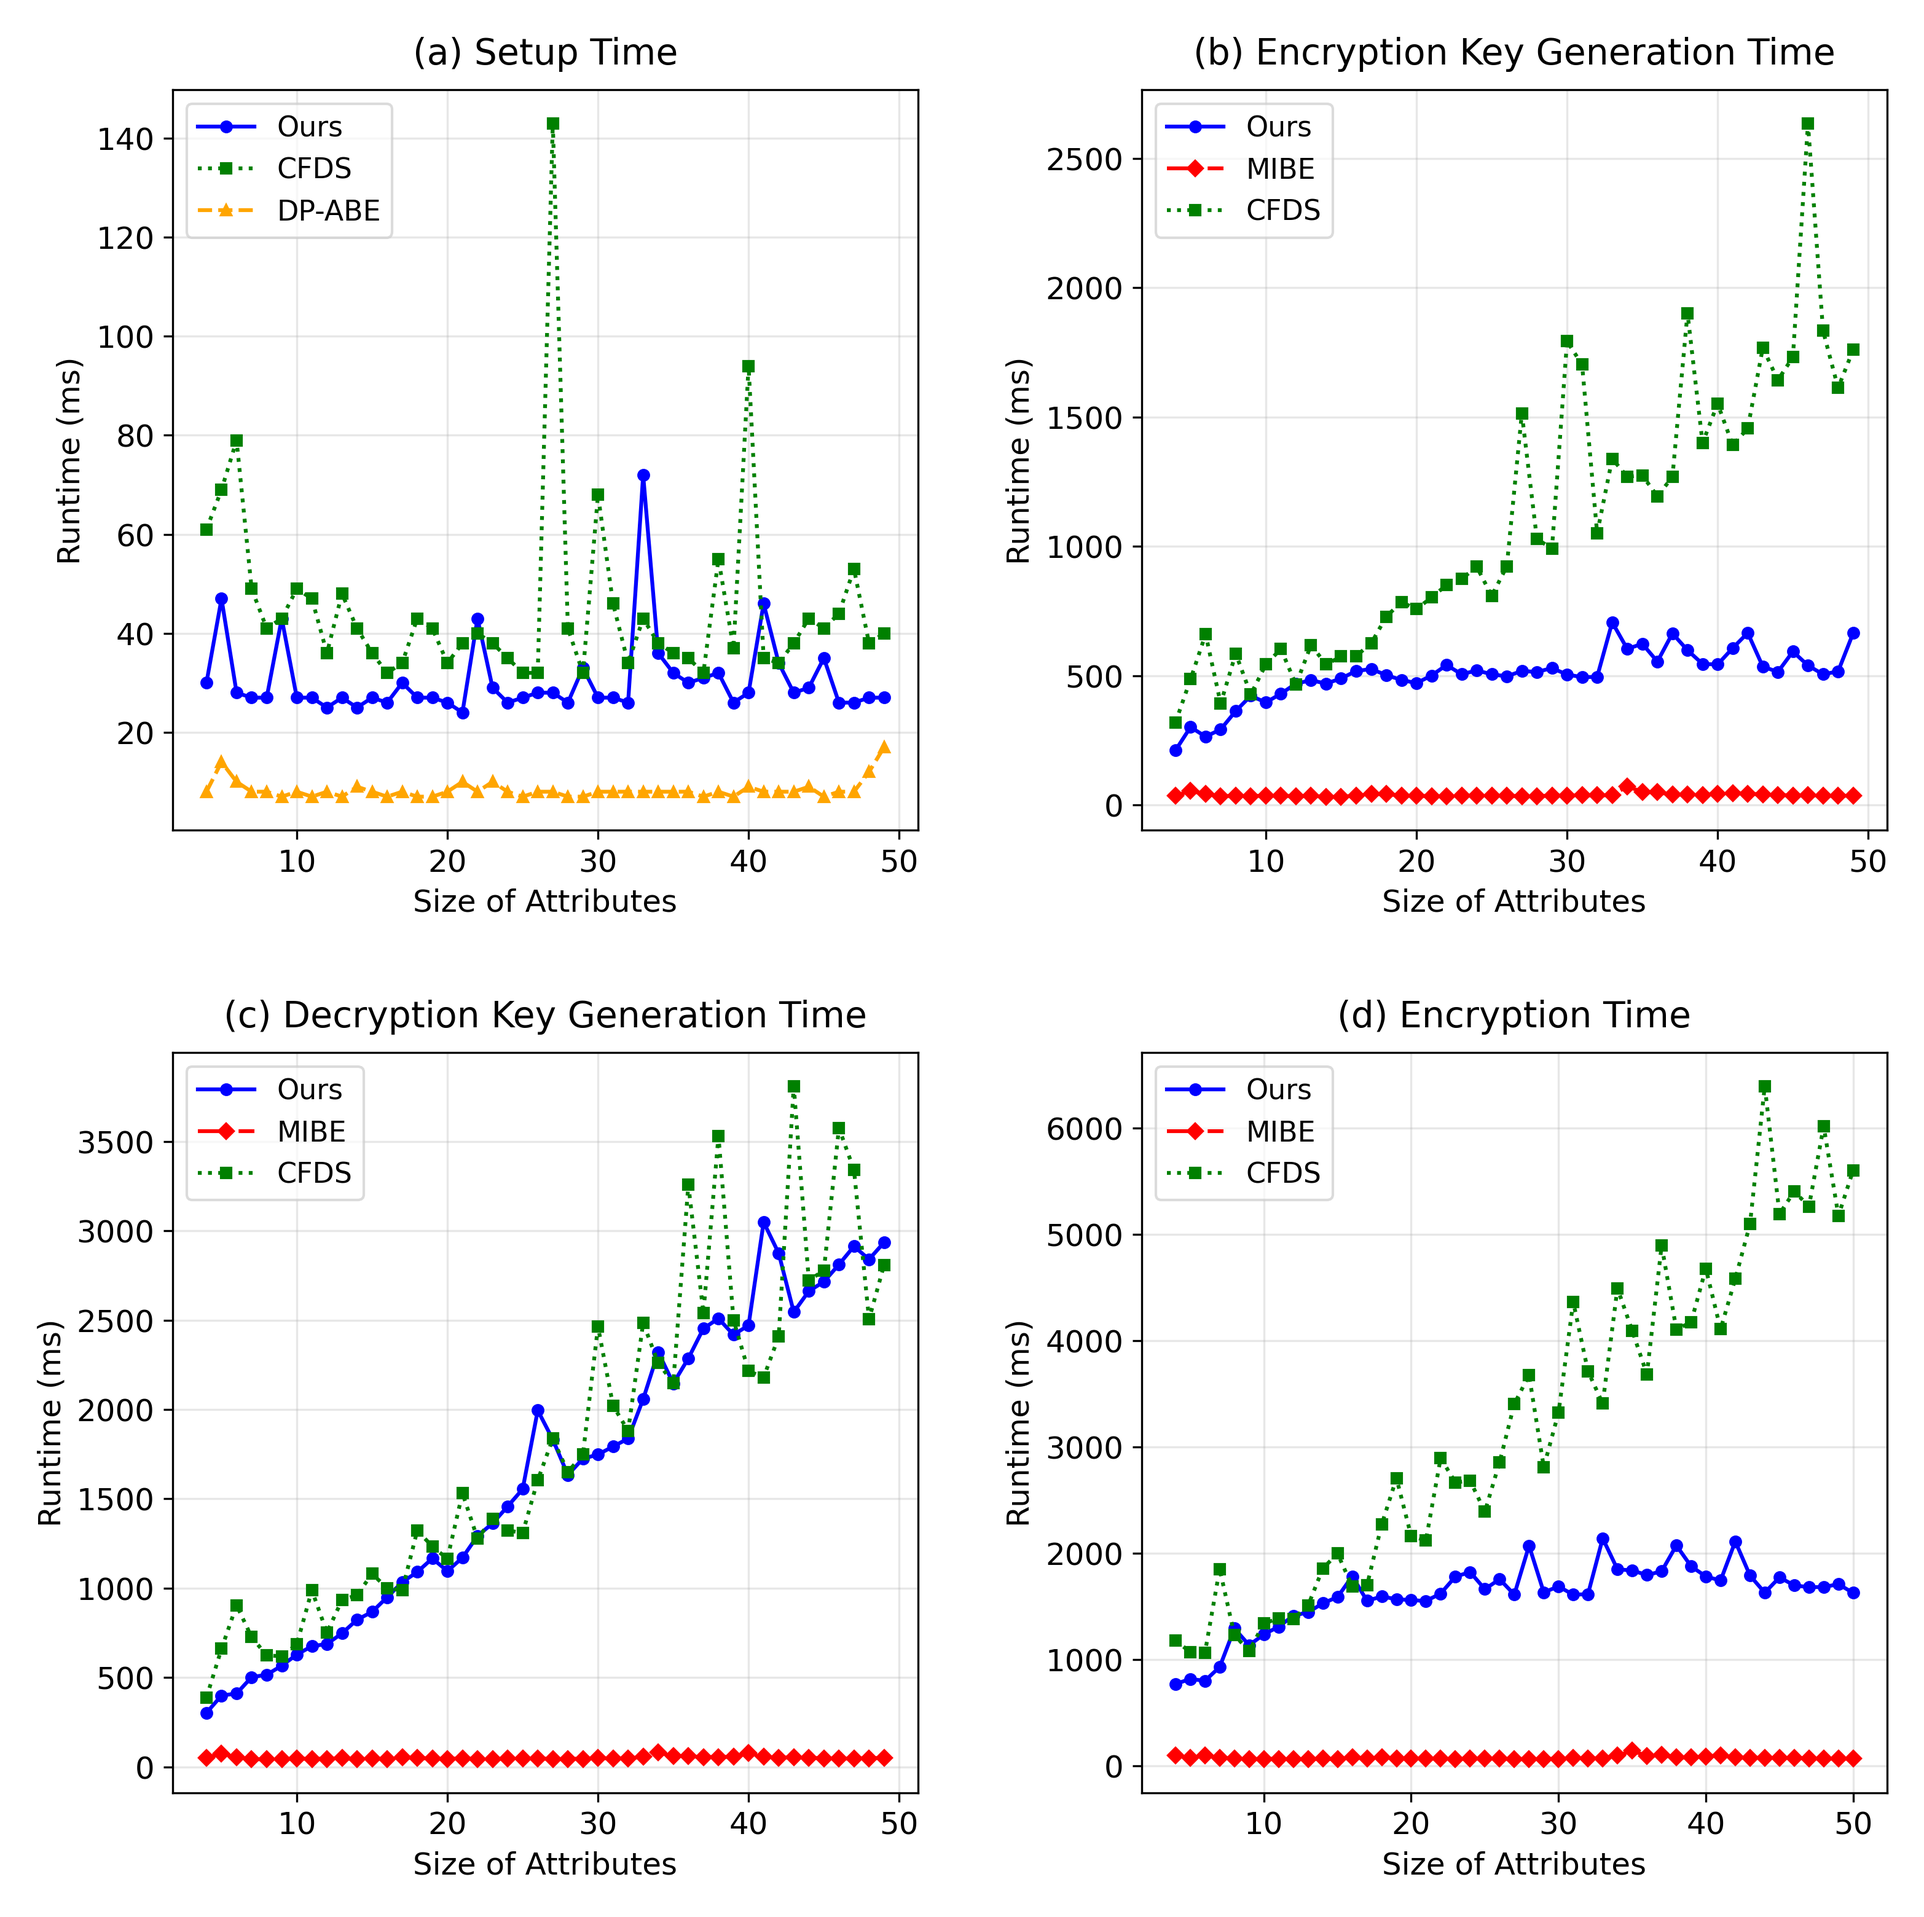
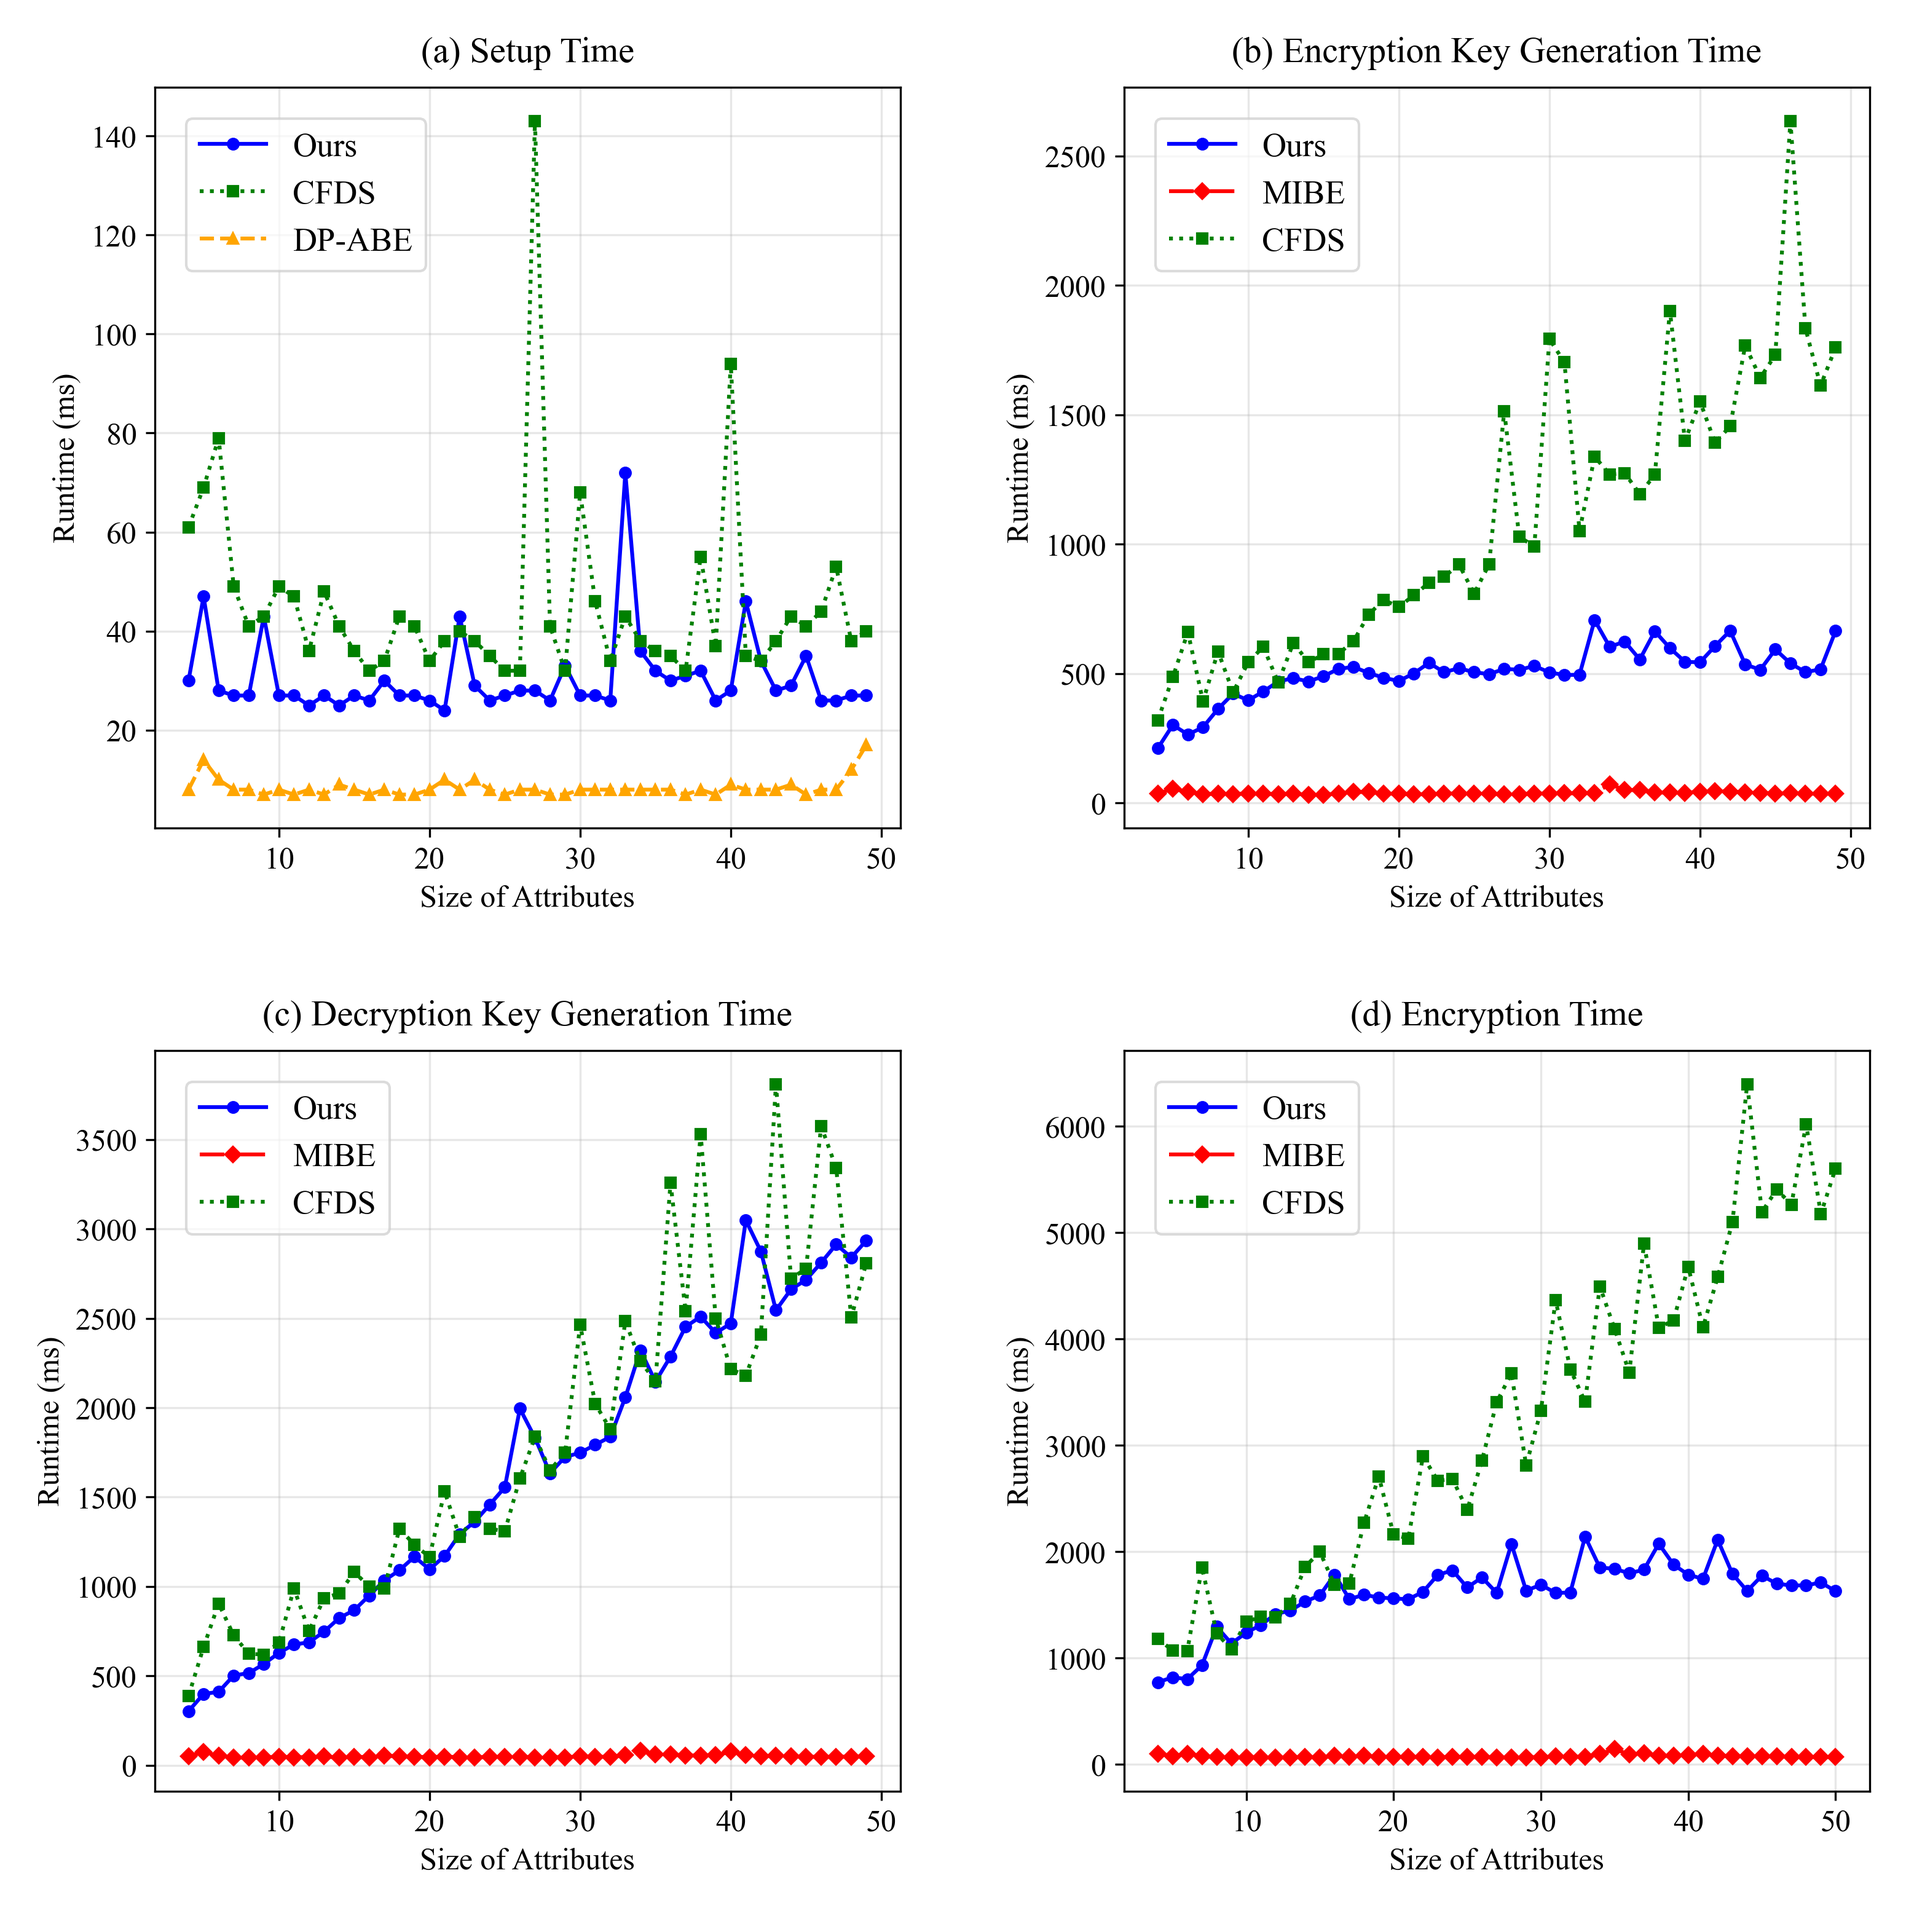
时间统计图优化

diff --git a/data/combined-data/combine.py b/data/combined-data/combine.py
@@ -1,8 +1,14 @@
 import pandas as pd
 import matplotlib.pyplot as plt
 
-# 创建两个图形
-plt.rcParams.update({'font.size': 8})
+# 设置全局字体
+plt.rcParams.update({
+    'font.family': 'Times New Roman',
+    'font.size': 10,
+    'axes.titlesize': 14,
+    'axes.labelsize': 12,
+    'legend.fontsize': 15,  # 增大图例字体
+})
 
 # 第一组图（前4个）
 fig1, axes1 = plt.subplots(2, 2, figsize=(12, 12))
@@ -79,12 +85,13 @@ for idx, (file_name, title) in enumerate(files_group1):
                     print(f"No data found for scheme: {scheme}")
 
         # Customize subplot with adjusted parameters
-        ax.set_title(f"({chr(97+idx)}) {title}", pad=10, fontsize=14)
+        ax.set_title(f"({chr(97+idx)}) {title}", pad=10, fontsize=14, fontfamily='Times New Roman')
         ax.grid(True, alpha=0.3)  # 降低网格线透明度
-        ax.set_xlabel("Size of Attributes", fontsize=12)
-        ax.set_ylabel("Runtime (ms)", fontsize=12)
+        ax.set_xlabel("Size of Attributes", fontsize=12, fontfamily='Times New Roman')
+        ax.set_ylabel("Runtime (ms)", fontsize=12, fontfamily='Times New Roman')
         ax.tick_params(axis='both', labelsize=12)  # 调整刻度标签大小
-        ax.legend(loc="upper left", fontsize=11, framealpha=0.7)
+        ax.legend(loc="upper left", fontsize=13, framealpha=0.7, 
+                 bbox_to_anchor=(0.02, 0.98))  # 调整图例位置和大小
         
     except Exception as e:
         print(f"Error processing {file_name}: {str(e)}")
@@ -132,12 +139,13 @@ for idx, (file_name, title) in enumerate(files_group2):
                     print(f"No data found for scheme: {scheme}")
 
         # Customize subplot with adjusted parameters
-        ax.set_title(f"({chr(97+idx+4)}) {title}", pad=10, fontsize=14)
+        ax.set_title(f"({chr(97+idx+4)}) {title}", pad=10, fontsize=14, fontfamily='Times New Roman')
         ax.grid(True, alpha=0.3)  # 降低网格线透明度
-        ax.set_xlabel("Size of Attributes", fontsize=12)
-        ax.set_ylabel("Runtime (ms)", fontsize=12)
+        ax.set_xlabel("Size of Attributes", fontsize=12, fontfamily='Times New Roman')
+        ax.set_ylabel("Runtime (ms)", fontsize=12, fontfamily='Times New Roman')
         ax.tick_params(axis='both', labelsize=12)  # 调整刻度标签大小
-        ax.legend(loc="upper left", fontsize=11, framealpha=0.7)
+        ax.legend(loc="upper left", fontsize=13, framealpha=0.7, 
+                 bbox_to_anchor=(0.02, 0.98))  # 调整图例位置和大小
         
     except Exception as e:
         print(f"Error processing {file_name}: {str(e)}")
